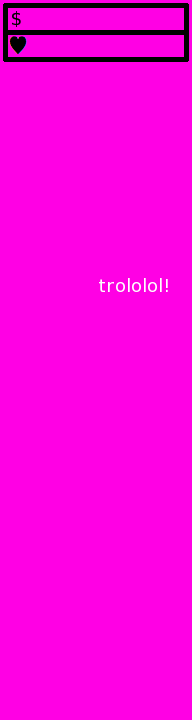
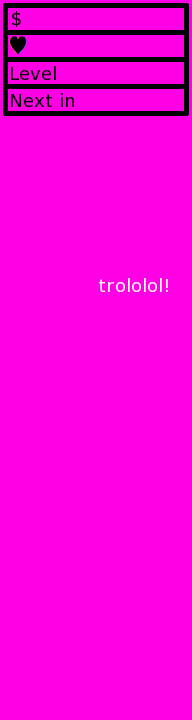
Level & countdown in panel

Changed region(s): [[0.0, 0.0917, 1.0, 0.1833]]

diff --git a/main.py b/main.py
@@ -187,9 +187,13 @@ def main():
 		font = pygame.font.SysFont("Verdana", 16, True)
 		money_render = font.render(str(money), True, (0,0,0))
 		lives_render = font.render(str(lives), True, (0,0,0))
+		level_render = font.render(str(level), True, (0,0,0))
+		next_render = font.render(str(spawn_countdown), True, (0,0,0))
 		screen.blit(panel, (1088, 0))
 		screen.blit(money_render, (1280-16-money_render.get_size()[0], 7))
 		screen.blit(lives_render, (1280-16-lives_render.get_size()[0], 35))
+		screen.blit(level_render, (1280-16-level_render.get_size()[0], 35+28))
+		screen.blit(next_render, (1280-16-next_render.get_size()[0], 35+28+28))
 		#screen.blit(lives_render, (1110, 25))
 
 		for thing in things:
